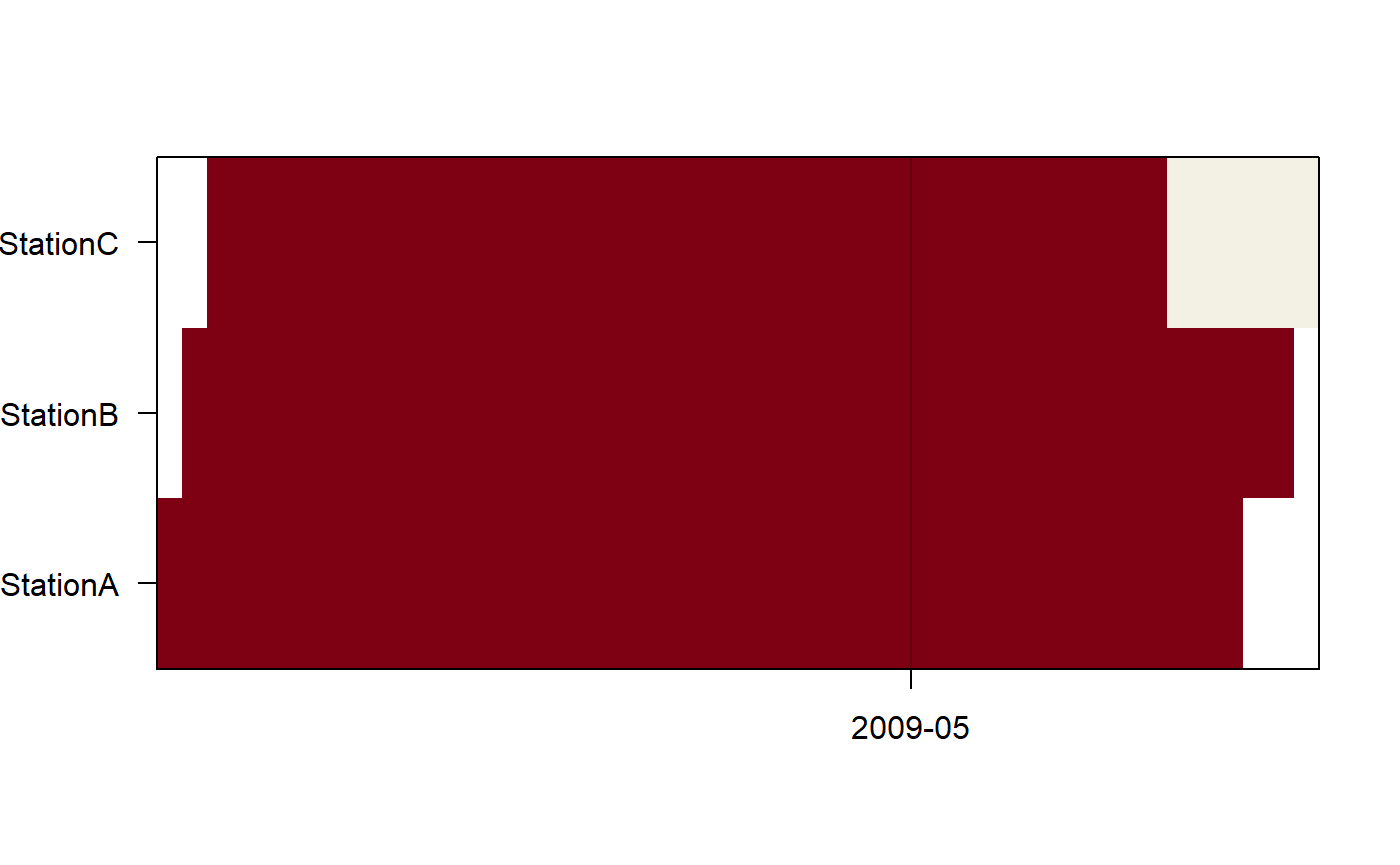
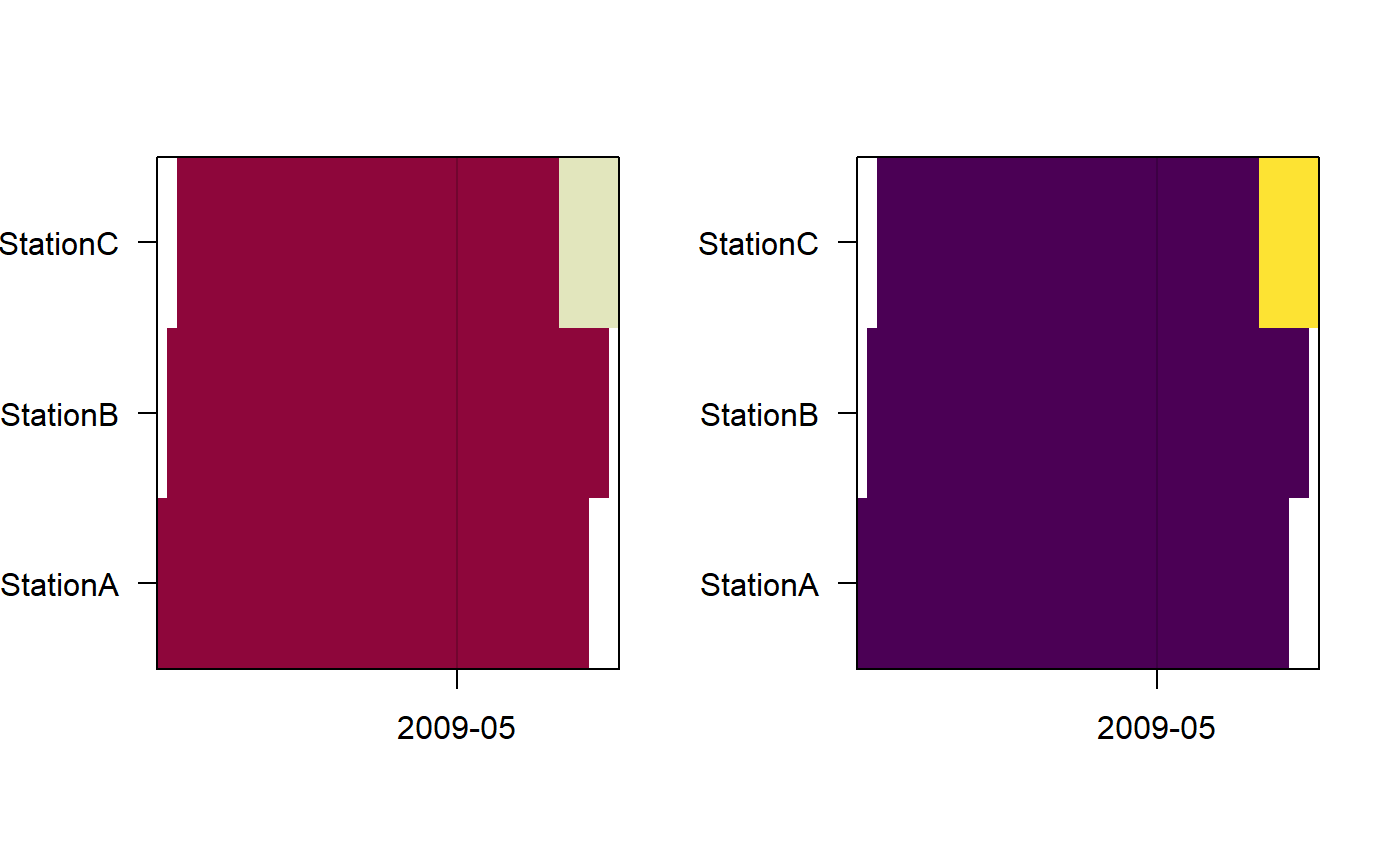
camopPlot updated

diff --git a/docs/articles/camtrapr3.html b/docs/articles/camtrapr3.html
@@ -94,7 +94,7 @@
       <h1>3. Extracting Data from Camera Trapping Images, creating occupancy &amp; secr input</h1>
                         <h4 class="author">Juergen Niedballa (<a href="mailto:camtrapr@gmail.com" class="email">camtrapr@gmail.com</a>)</h4>
             
-            <h4 class="date">2020-02-24</h4>
+            <h4 class="date">2020-02-26</h4>
       
       <small class="dont-index">Source: <a href="https://github.com/jniedballa/camtrapR/blob/master/vignettes/camtrapr3.Rmd"><code>vignettes/camtrapr3.Rmd</code></a></small>
       <div class="hidden name"><code>camtrapr3.Rmd</code></div>
@@ -148,13 +148,13 @@
 ## 4             226              3.8             0.2
 ## 5               2              0.0             0.0
 ## 6           21182            353.0            14.7
-##                                                                                                             Directory
-## 1 C:/Users/Juergen/AppData/Local/Temp/RtmpoVlgfh/temp_libpathbdc2b58400b/camtrapR/pictures/sample_images/StationA/PBE
-## 2 C:/Users/Juergen/AppData/Local/Temp/RtmpoVlgfh/temp_libpathbdc2b58400b/camtrapR/pictures/sample_images/StationA/PBE
-## 3 C:/Users/Juergen/AppData/Local/Temp/RtmpoVlgfh/temp_libpathbdc2b58400b/camtrapR/pictures/sample_images/StationA/PBE
-## 4 C:/Users/Juergen/AppData/Local/Temp/RtmpoVlgfh/temp_libpathbdc2b58400b/camtrapR/pictures/sample_images/StationA/PBE
-## 5 C:/Users/Juergen/AppData/Local/Temp/RtmpoVlgfh/temp_libpathbdc2b58400b/camtrapR/pictures/sample_images/StationA/PBE
-## 6 C:/Users/Juergen/AppData/Local/Temp/RtmpoVlgfh/temp_libpathbdc2b58400b/camtrapR/pictures/sample_images/StationA/PBE
+##                                                                                   Directory
+## 1 C:/Users/Juergen/Documents/R/win-library/3.6/camtrapR/pictures/sample_images/StationA/PBE
+## 2 C:/Users/Juergen/Documents/R/win-library/3.6/camtrapR/pictures/sample_images/StationA/PBE
+## 3 C:/Users/Juergen/Documents/R/win-library/3.6/camtrapR/pictures/sample_images/StationA/PBE
+## 4 C:/Users/Juergen/Documents/R/win-library/3.6/camtrapR/pictures/sample_images/StationA/PBE
+## 5 C:/Users/Juergen/Documents/R/win-library/3.6/camtrapR/pictures/sample_images/StationA/PBE
+## 6 C:/Users/Juergen/Documents/R/win-library/3.6/camtrapR/pictures/sample_images/StationA/PBE
 ##                                FileName n_images
 ## 1 StationA__2009-04-21__00-40-00(1).JPG        1
 ## 2 StationA__2009-04-22__20-19-00(1).JPG        1
@@ -300,7 +300,7 @@
 <div class="sourceCode" id="cb28"><pre class="sourceCode r"><code class="sourceCode r"><a class="sourceLine" id="cb28-1" title="1">wd_images_ID &lt;-<span class="st"> </span><span class="kw"><a href="https://rdrr.io/r/base/system.file.html">system.file</a></span>(<span class="st">"pictures/sample_images"</span>, <span class="dt">package =</span> <span class="st">"camtrapR"</span>)</a>
 <a class="sourceLine" id="cb28-2" title="2"><span class="kw"><a href="../reference/exifTagNames.html">exifTagNames</a></span>(<span class="dt">inDir =</span> wd_images_ID, <span class="dt">returnMetadata =</span> <span class="ot">FALSE</span>)</a></code></pre></div>
 <pre><code>## Metadata of:
-## C:/Users/Juergen/AppData/Local/Temp/RtmpoVlgfh/temp_libpathbdc2b58400b/camtrapR/pictures/sample_images/StationA/PBE/StationA__2009-04-21__00-40-00(1).JPG</code></pre>
+## C:/Users/Juergen/Documents/R/win-library/3.6/camtrapR/pictures/sample_images/StationA/PBE/StationA__2009-04-21__00-40-00(1).JPG</code></pre>
 <pre><code>##  [1] "Composite:ImageSize"          "Composite:Megapixels"        
 ##  [3] "Composite:ShutterSpeed"       "EXIF:ColorSpace"             
 ##  [5] "EXIF:ComponentsConfiguration" "EXIF:Compression"            
@@ -326,49 +326,49 @@
 <p>If one has no idea what kind of data are behind these tag names, <code>returnMetadata</code> can be set to TRUE to return the actual metadata instead of the tag names only.</p>
 <div class="sourceCode" id="cb31"><pre class="sourceCode r"><code class="sourceCode r"><a class="sourceLine" id="cb31-1" title="1"><span class="kw"><a href="../reference/exifTagNames.html">exifTagNames</a></span>(<span class="dt">inDir =</span> wd_images_ID, <span class="dt">returnMetadata =</span> <span class="ot">TRUE</span>)</a></code></pre></div>
 <pre><code>## Metadata values of:
-## C:/Users/Juergen/AppData/Local/Temp/RtmpoVlgfh/temp_libpathbdc2b58400b/camtrapR/pictures/sample_images/StationA/PBE/StationA__2009-04-21__00-40-00(1).JPG</code></pre>
-<pre><code>##  [1] "[ExifTool]      ExifTool Version Number         : 11.80"                                                                                                              
-##  [2] "[ExifTool]      Warning                         : Invalid EXIF text encoding for UserComment"                                                                         
-##  [3] "[File]          File Name                       : StationA__2009-04-21__00-40-00(1).JPG"                                                                              
-##  [4] "[File]          Directory                       : C:/Users/Juergen/AppData/Local/Temp/RtmpoVlgfh/temp_libpathbdc2b58400b/camtrapR/pictures/sample_images/StationA/PBE"
-##  [5] "[File]          File Size                       : 27 kB"                                                                                                              
-##  [6] "[File]          File Modification Date/Time     : 2020:02:24 14:38:25+08:00"                                                                                          
-##  [7] "[File]          File Access Date/Time           : 2020:02:24 14:38:25+08:00"                                                                                          
-##  [8] "[File]          File Creation Date/Time         : 2020:02:24 14:38:25+08:00"                                                                                          
-##  [9] "[File]          File Permissions                : rw-rw-rw-"                                                                                                          
-## [10] "[File]          File Type                       : JPEG"                                                                                                               
-## [11] "[File]          File Type Extension             : jpg"                                                                                                                
-## [12] "[File]          MIME Type                       : image/jpeg"                                                                                                         
-## [13] "[File]          Exif Byte Order                 : Little-endian (Intel, II)"                                                                                          
-## [14] "[File]          Image Width                     : 100"                                                                                                                
-## [15] "[File]          Image Height                    : 75"                                                                                                                 
-## [16] "[File]          Encoding Process                : Baseline DCT, Huffman coding"                                                                                       
-## [17] "[File]          Bits Per Sample                 : 8"                                                                                                                  
-## [18] "[File]          Color Components                : 3"                                                                                                                  
-## [19] "[File]          Y Cb Cr Sub Sampling            : YCbCr4:2:2 (2 1)"                                                                                                   
-## [20] "[EXIF]          Make                            : G4"                                                                                                                 
-## [21] "[EXIF]          Camera Model Name               : CUDDEBACK"                                                                                                          
-## [22] "[EXIF]          X Resolution                    : 72"                                                                                                                 
-## [23] "[EXIF]          Y Resolution                    : 72"                                                                                                                 
-## [24] "[EXIF]          Modify Date                     : 2009:04:21 00:40:00"                                                                                                
-## [25] "[EXIF]          Resolution Unit                 : inches"                                                                                                             
-## [26] "[EXIF]          Y Cb Cr Positioning             : Co-sited"                                                                                                           
-## [27] "[EXIF]          Exif Version                    : 0200"                                                                                                               
-## [28] "[EXIF]          Components Configuration        : Y, Cb, Cr, -"                                                                                                       
-## [29] "[EXIF]          Flashpix Version                : 0100"                                                                                                               
-## [30] "[EXIF]          Color Space                     : sRGB"                                                                                                               
-## [31] "[EXIF]          Exif Image Width                : 100"                                                                                                                
-## [32] "[EXIF]          Exif Image Height               : 75"                                                                                                                 
-## [33] "[EXIF]          Date/Time Original              : 2009:04:21 00:40:00"                                                                                                
-## [34] "[EXIF]          Create Date                     : 2009:04:21 00:40:00"                                                                                                
-## [35] "[EXIF]          User Comment                    : 1 ATTEMPT G1H"                                                                                                      
-## [36] "[EXIF]          Shutter Speed Value             : 1"                                                                                                                  
-## [37] "[EXIF]          Compression                     : JPEG (old-style)"                                                                                                   
-## [38] "[EXIF]          Thumbnail Offset                : 408"                                                                                                                
-## [39] "[EXIF]          Thumbnail Length                : 25353"                                                                                                              
-## [40] "[EXIF]          Thumbnail Image                 : (Binary data 25353 bytes, use -b option to extract)"                                                                
-## [41] "[Composite]     Image Size                      : 100x75"                                                                                                             
-## [42] "[Composite]     Megapixels                      : 0.007"                                                                                                              
+## C:/Users/Juergen/Documents/R/win-library/3.6/camtrapR/pictures/sample_images/StationA/PBE/StationA__2009-04-21__00-40-00(1).JPG</code></pre>
+<pre><code>##  [1] "[ExifTool]      ExifTool Version Number         : 11.80"                                                                                    
+##  [2] "[ExifTool]      Warning                         : Invalid EXIF text encoding for UserComment"                                               
+##  [3] "[File]          File Name                       : StationA__2009-04-21__00-40-00(1).JPG"                                                    
+##  [4] "[File]          Directory                       : C:/Users/Juergen/Documents/R/win-library/3.6/camtrapR/pictures/sample_images/StationA/PBE"
+##  [5] "[File]          File Size                       : 27 kB"                                                                                    
+##  [6] "[File]          File Modification Date/Time     : 2020:02:25 12:39:04+08:00"                                                                
+##  [7] "[File]          File Access Date/Time           : 2020:02:25 12:39:04+08:00"                                                                
+##  [8] "[File]          File Creation Date/Time         : 2020:02:25 12:39:04+08:00"                                                                
+##  [9] "[File]          File Permissions                : rw-rw-rw-"                                                                                
+## [10] "[File]          File Type                       : JPEG"                                                                                     
+## [11] "[File]          File Type Extension             : jpg"                                                                                      
+## [12] "[File]          MIME Type                       : image/jpeg"                                                                               
+## [13] "[File]          Exif Byte Order                 : Little-endian (Intel, II)"                                                                
+## [14] "[File]          Image Width                     : 100"                                                                                      
+## [15] "[File]          Image Height                    : 75"                                                                                       
+## [16] "[File]          Encoding Process                : Baseline DCT, Huffman coding"                                                             
+## [17] "[File]          Bits Per Sample                 : 8"                                                                                        
+## [18] "[File]          Color Components                : 3"                                                                                        
+## [19] "[File]          Y Cb Cr Sub Sampling            : YCbCr4:2:2 (2 1)"                                                                         
+## [20] "[EXIF]          Make                            : G4"                                                                                       
+## [21] "[EXIF]          Camera Model Name               : CUDDEBACK"                                                                                
+## [22] "[EXIF]          X Resolution                    : 72"                                                                                       
+## [23] "[EXIF]          Y Resolution                    : 72"                                                                                       
+## [24] "[EXIF]          Modify Date                     : 2009:04:21 00:40:00"                                                                      
+## [25] "[EXIF]          Resolution Unit                 : inches"                                                                                   
+## [26] "[EXIF]          Y Cb Cr Positioning             : Co-sited"                                                                                 
+## [27] "[EXIF]          Exif Version                    : 0200"                                                                                     
+## [28] "[EXIF]          Components Configuration        : Y, Cb, Cr, -"                                                                             
+## [29] "[EXIF]          Flashpix Version                : 0100"                                                                                     
+## [30] "[EXIF]          Color Space                     : sRGB"                                                                                     
+## [31] "[EXIF]          Exif Image Width                : 100"                                                                                      
+## [32] "[EXIF]          Exif Image Height               : 75"                                                                                       
+## [33] "[EXIF]          Date/Time Original              : 2009:04:21 00:40:00"                                                                      
+## [34] "[EXIF]          Create Date                     : 2009:04:21 00:40:00"                                                                      
+## [35] "[EXIF]          User Comment                    : 1 ATTEMPT G1H"                                                                            
+## [36] "[EXIF]          Shutter Speed Value             : 1"                                                                                        
+## [37] "[EXIF]          Compression                     : JPEG (old-style)"                                                                         
+## [38] "[EXIF]          Thumbnail Offset                : 408"                                                                                      
+## [39] "[EXIF]          Thumbnail Length                : 25353"                                                                                    
+## [40] "[EXIF]          Thumbnail Image                 : (Binary data 25353 bytes, use -b option to extract)"                                      
+## [41] "[Composite]     Image Size                      : 100x75"                                                                                   
+## [42] "[Composite]     Megapixels                      : 0.007"                                                                                    
 ## [43] "[Composite]     Shutter Speed                   : 1"</code></pre>
 <p>Note that when <code>returnMetadata = TRUE</code> the tag names contain spaces whereas they don’t when <code>returnMetadata = FALSE</code>. When supplying tagnames to the <code>recordTable</code> functions, use the tag names without spaces (as returned when <code>returnMetadata = FALSE</code>).</p>
 <p>Please also note that <code>exifTagNames</code> by default returns the metadata tag group along with the tag names (since version 0.99.6), which is helpful to unambiguously identify and extract specific metadata tags as shown in the next step.</p>
@@ -395,13 +395,13 @@
 ## 4             226              3.8             0.2
 ## 5               2              0.0             0.0
 ## 6           21182            353.0            14.7
-##                                                                                                             Directory
-## 1 C:/Users/Juergen/AppData/Local/Temp/RtmpoVlgfh/temp_libpathbdc2b58400b/camtrapR/pictures/sample_images/StationA/PBE
-## 2 C:/Users/Juergen/AppData/Local/Temp/RtmpoVlgfh/temp_libpathbdc2b58400b/camtrapR/pictures/sample_images/StationA/PBE
-## 3 C:/Users/Juergen/AppData/Local/Temp/RtmpoVlgfh/temp_libpathbdc2b58400b/camtrapR/pictures/sample_images/StationA/PBE
-## 4 C:/Users/Juergen/AppData/Local/Temp/RtmpoVlgfh/temp_libpathbdc2b58400b/camtrapR/pictures/sample_images/StationA/PBE
-## 5 C:/Users/Juergen/AppData/Local/Temp/RtmpoVlgfh/temp_libpathbdc2b58400b/camtrapR/pictures/sample_images/StationA/PBE
-## 6 C:/Users/Juergen/AppData/Local/Temp/RtmpoVlgfh/temp_libpathbdc2b58400b/camtrapR/pictures/sample_images/StationA/PBE
+##                                                                                   Directory
+## 1 C:/Users/Juergen/Documents/R/win-library/3.6/camtrapR/pictures/sample_images/StationA/PBE
+## 2 C:/Users/Juergen/Documents/R/win-library/3.6/camtrapR/pictures/sample_images/StationA/PBE
+## 3 C:/Users/Juergen/Documents/R/win-library/3.6/camtrapR/pictures/sample_images/StationA/PBE
+## 4 C:/Users/Juergen/Documents/R/win-library/3.6/camtrapR/pictures/sample_images/StationA/PBE
+## 5 C:/Users/Juergen/Documents/R/win-library/3.6/camtrapR/pictures/sample_images/StationA/PBE
+## 6 C:/Users/Juergen/Documents/R/win-library/3.6/camtrapR/pictures/sample_images/StationA/PBE
 ##                                FileName EXIF.Model EXIF.Make n_images
 ## 1 StationA__2009-04-21__00-40-00(1).JPG  CUDDEBACK        G4        1
 ## 2 StationA__2009-04-22__20-19-00(1).JPG  CUDDEBACK        G4        1
@@ -448,13 +448,13 @@
 ## 4           13680             228              3.8             0.2
 ## 5               0               0              0.0             0.0
 ## 6          625800           10430            173.8             7.2
-##                                                                                                                  Directory
-## 1 C:/Users/Juergen/AppData/Local/Temp/RtmpoVlgfh/temp_libpathbdc2b58400b/camtrapR/pictures/sample_images_tagged/LeopardCat
-## 2 C:/Users/Juergen/AppData/Local/Temp/RtmpoVlgfh/temp_libpathbdc2b58400b/camtrapR/pictures/sample_images_tagged/LeopardCat
-## 3 C:/Users/Juergen/AppData/Local/Temp/RtmpoVlgfh/temp_libpathbdc2b58400b/camtrapR/pictures/sample_images_tagged/LeopardCat
-## 4 C:/Users/Juergen/AppData/Local/Temp/RtmpoVlgfh/temp_libpathbdc2b58400b/camtrapR/pictures/sample_images_tagged/LeopardCat
-## 5 C:/Users/Juergen/AppData/Local/Temp/RtmpoVlgfh/temp_libpathbdc2b58400b/camtrapR/pictures/sample_images_tagged/LeopardCat
-## 6 C:/Users/Juergen/AppData/Local/Temp/RtmpoVlgfh/temp_libpathbdc2b58400b/camtrapR/pictures/sample_images_tagged/LeopardCat
+##                                                                                        Directory
+## 1 C:/Users/Juergen/Documents/R/win-library/3.6/camtrapR/pictures/sample_images_tagged/LeopardCat
+## 2 C:/Users/Juergen/Documents/R/win-library/3.6/camtrapR/pictures/sample_images_tagged/LeopardCat
+## 3 C:/Users/Juergen/Documents/R/win-library/3.6/camtrapR/pictures/sample_images_tagged/LeopardCat
+## 4 C:/Users/Juergen/Documents/R/win-library/3.6/camtrapR/pictures/sample_images_tagged/LeopardCat
+## 5 C:/Users/Juergen/Documents/R/win-library/3.6/camtrapR/pictures/sample_images_tagged/LeopardCat
+## 6 C:/Users/Juergen/Documents/R/win-library/3.6/camtrapR/pictures/sample_images_tagged/LeopardCat
 ##                                FileName metadata_Species metadata_individual
 ## 1 StationA__2009-05-07__17-11-00(1).JPG      Leopard Cat                   1
 ## 2 StationA__2009-04-21__00-40-00(1).JPG      Leopard Cat                   2
@@ -516,24 +516,34 @@
 <p>If stations were not set up, values are NA. If they were set up but malfunctioning, it is 0. Operational stations get value 1.</p>
 <p>Here is a little function for plotting the camera operation matrix. Imagine there is a typo in one of your date fields and the setup or retrieval year is wrong. You will easily be able to spot it this way.</p>
 <div class="sourceCode" id="cb50"><pre class="sourceCode r"><code class="sourceCode r"><a class="sourceLine" id="cb50-1" title="1">camopPlot &lt;-<span class="st"> </span><span class="cf">function</span>(camOp, </a>
-<a class="sourceLine" id="cb50-2" title="2">                      <span class="dt">palette =</span> <span class="st">"Red-Yellow"</span>){</a>
+<a class="sourceLine" id="cb50-2" title="2">                      <span class="dt">palette =</span> <span class="st">"Heat"</span>){</a>
 <a class="sourceLine" id="cb50-3" title="3">  </a>
 <a class="sourceLine" id="cb50-4" title="4">  which.tmp &lt;-<span class="st"> </span><span class="kw"><a href="https://rdrr.io/r/base/grep.html">grep</a></span>(<span class="kw"><a href="https://rdrr.io/r/base/as.Date.html">as.Date</a></span>(<span class="kw"><a href="https://rdrr.io/r/base/colnames.html">colnames</a></span>(camOp)), <span class="dt">pattern =</span> <span class="st">"01$"</span>)</a>
 <a class="sourceLine" id="cb50-5" title="5">  label.tmp &lt;-<span class="st"> </span><span class="kw"><a href="https://rdrr.io/r/base/format.html">format</a></span>(<span class="kw"><a href="https://rdrr.io/r/base/as.Date.html">as.Date</a></span>(<span class="kw"><a href="https://rdrr.io/r/base/colnames.html">colnames</a></span>(camOp))[which.tmp], <span class="st">"%Y-%m"</span>)</a>
 <a class="sourceLine" id="cb50-6" title="6">  at.tmp &lt;-<span class="st"> </span>which.tmp <span class="op">/</span><span class="st"> </span><span class="kw"><a href="https://rdrr.io/r/base/nrow.html">ncol</a></span>(camOp)</a>
 <a class="sourceLine" id="cb50-7" title="7">  </a>
-<a class="sourceLine" id="cb50-8" title="8">  values_tmp &lt;-<span class="st"> </span><span class="kw"><a href="https://rdrr.io/r/stats/na.fail.html">na.omit</a></span>(<span class="kw"><a href="https://rdrr.io/r/base/unique.html">unique</a></span>(<span class="kw"><a href="https://rdrr.io/r/base/c.html">c</a></span>(camOp)))</a>
+<a class="sourceLine" id="cb50-8" title="8">  values_tmp &lt;-<span class="st"> </span><span class="kw"><a href="https://rdrr.io/r/base/sort.html">sort</a></span>(<span class="kw"><a href="https://rdrr.io/r/stats/na.fail.html">na.omit</a></span>(<span class="kw"><a href="https://rdrr.io/r/base/unique.html">unique</a></span>(<span class="kw"><a href="https://rdrr.io/r/base/c.html">c</a></span>(camOp))))</a>
 <a class="sourceLine" id="cb50-9" title="9"></a>
-<a class="sourceLine" id="cb50-10" title="10">  <span class="kw"><a href="https://rdrr.io/r/graphics/image.html">image</a></span>(<span class="kw"><a href="https://rdrr.io/r/base/t.html">t</a></span>(<span class="kw"><a href="https://rdrr.io/r/base/matrix.html">as.matrix</a></span>(camOp)), <span class="dt">xaxt =</span> <span class="st">"n"</span>, <span class="dt">yaxt =</span> <span class="st">"n"</span>, <span class="dt">col =</span> <span class="kw"><a href="https://rdrr.io/r/grDevices/palettes.html">hcl.colors</a></span>(<span class="dt">n =</span> <span class="kw"><a href="https://rdrr.io/r/base/length.html">length</a></span>(values_tmp), <span class="dt">palette =</span> palette, <span class="dt">rev =</span> <span class="ot">TRUE</span>))</a>
-<a class="sourceLine" id="cb50-11" title="11">  </a>
-<a class="sourceLine" id="cb50-12" title="12">  <span class="kw"><a href="https://rdrr.io/r/graphics/axis.html">axis</a></span>(<span class="dv">1</span>, <span class="dt">at =</span> at.tmp, <span class="dt">labels =</span> label.tmp)</a>
-<a class="sourceLine" id="cb50-13" title="13">  <span class="kw"><a href="https://rdrr.io/r/graphics/axis.html">axis</a></span>(<span class="dv">2</span>, <span class="dt">at =</span> <span class="kw"><a href="https://rdrr.io/r/base/seq.html">seq</a></span>(<span class="dt">from =</span> <span class="dv">0</span>, <span class="dt">to =</span> <span class="dv">1</span>, <span class="dt">length.out =</span> <span class="kw"><a href="https://rdrr.io/r/base/nrow.html">nrow</a></span>(camOp)), <span class="dt">labels =</span> <span class="kw"><a href="https://rdrr.io/r/base/colnames.html">rownames</a></span>(camOp), <span class="dt">las =</span> <span class="dv">1</span>)</a>
-<a class="sourceLine" id="cb50-14" title="14">  <span class="kw"><a href="https://rdrr.io/r/graphics/abline.html">abline</a></span>(<span class="dt">v =</span> at.tmp, <span class="dt">col =</span> <span class="kw"><a href="https://rdrr.io/r/grDevices/rgb.html">rgb</a></span>(<span class="dv">0</span>,<span class="dv">0</span>,<span class="dv">0</span>, <span class="fl">0.2</span>))</a>
-<a class="sourceLine" id="cb50-15" title="15">  <span class="kw"><a href="https://rdrr.io/r/graphics/box.html">box</a></span>()</a>
-<a class="sourceLine" id="cb50-16" title="16">}</a></code></pre></div>
-<p>And this is what we get</p>
-<div class="sourceCode" id="cb51"><pre class="sourceCode r"><code class="sourceCode r"><a class="sourceLine" id="cb51-1" title="1"><span class="kw">camopPlot</span>(<span class="dt">camOp =</span> camop_problem)</a></code></pre></div>
+<a class="sourceLine" id="cb50-10" title="10">  <span class="co"># hcl.colors only exists in R &gt;3.6.0, use heat.colors for earlier versions</span></a>
+<a class="sourceLine" id="cb50-11" title="11">  image_colors &lt;-<span class="st"> </span><span class="cf">if</span>(<span class="kw"><a href="https://rdrr.io/r/base/exists.html">exists</a></span>(<span class="st">"hcl.colors"</span>)) {</a>
+<a class="sourceLine" id="cb50-12" title="12">    <span class="kw"><a href="https://rdrr.io/r/grDevices/palettes.html">hcl.colors</a></span>(<span class="dt">n =</span> <span class="kw"><a href="https://rdrr.io/r/base/length.html">length</a></span>(values_tmp), <span class="dt">palette =</span> palette, <span class="dt">rev =</span> <span class="ot">TRUE</span>)</a>
+<a class="sourceLine" id="cb50-13" title="13">  } <span class="cf">else</span> {</a>
+<a class="sourceLine" id="cb50-14" title="14">    <span class="kw"><a href="https://rdrr.io/r/grDevices/palettes.html">heat.colors</a></span>(<span class="dt">n =</span> <span class="kw"><a href="https://rdrr.io/r/base/length.html">length</a></span>(values_tmp), <span class="dt">rev =</span> <span class="ot">TRUE</span>)</a>
+<a class="sourceLine" id="cb50-15" title="15">  }</a>
+<a class="sourceLine" id="cb50-16" title="16">  </a>
+<a class="sourceLine" id="cb50-17" title="17">  <span class="kw"><a href="https://rdrr.io/r/graphics/image.html">image</a></span>(<span class="kw"><a href="https://rdrr.io/r/base/t.html">t</a></span>(<span class="kw"><a href="https://rdrr.io/r/base/matrix.html">as.matrix</a></span>(camOp)), <span class="dt">xaxt =</span> <span class="st">"n"</span>, <span class="dt">yaxt =</span> <span class="st">"n"</span>, <span class="dt">col =</span> image_colors)</a>
+<a class="sourceLine" id="cb50-18" title="18">  <span class="kw"><a href="https://rdrr.io/r/graphics/axis.html">axis</a></span>(<span class="dv">1</span>, <span class="dt">at =</span> at.tmp, <span class="dt">labels =</span> label.tmp)</a>
+<a class="sourceLine" id="cb50-19" title="19">  <span class="kw"><a href="https://rdrr.io/r/graphics/axis.html">axis</a></span>(<span class="dv">2</span>, <span class="dt">at =</span> <span class="kw"><a href="https://rdrr.io/r/base/seq.html">seq</a></span>(<span class="dt">from =</span> <span class="dv">0</span>, <span class="dt">to =</span> <span class="dv">1</span>, <span class="dt">length.out =</span> <span class="kw"><a href="https://rdrr.io/r/base/nrow.html">nrow</a></span>(camOp)), <span class="dt">labels =</span> <span class="kw"><a href="https://rdrr.io/r/base/colnames.html">rownames</a></span>(camOp), <span class="dt">las =</span> <span class="dv">1</span>)</a>
+<a class="sourceLine" id="cb50-20" title="20">  <span class="kw"><a href="https://rdrr.io/r/graphics/abline.html">abline</a></span>(<span class="dt">v =</span> at.tmp, <span class="dt">col =</span> <span class="kw"><a href="https://rdrr.io/r/grDevices/rgb.html">rgb</a></span>(<span class="dv">0</span>,<span class="dv">0</span>,<span class="dv">0</span>, <span class="fl">0.2</span>))</a>
+<a class="sourceLine" id="cb50-21" title="21">  <span class="kw"><a href="https://rdrr.io/r/graphics/box.html">box</a></span>()</a>
+<a class="sourceLine" id="cb50-22" title="22">}</a></code></pre></div>
+<p>And this is what we get (in two different color palettes).</p>
+<div class="sourceCode" id="cb51"><pre class="sourceCode r"><code class="sourceCode r"><a class="sourceLine" id="cb51-1" title="1"><span class="kw"><a href="https://rdrr.io/r/graphics/par.html">par</a></span>(<span class="dt">mfrow =</span> <span class="kw"><a href="https://rdrr.io/r/base/c.html">c</a></span>(<span class="dv">1</span>,<span class="dv">2</span>))</a>
+<a class="sourceLine" id="cb51-2" title="2"><span class="kw">camopPlot</span>(<span class="dt">camOp =</span> camop_problem)</a>
+<a class="sourceLine" id="cb51-3" title="3"><span class="kw">camopPlot</span>(<span class="dt">camOp =</span> camop_problem, <span class="dt">palette =</span> <span class="st">"Viridis"</span>)</a></code></pre></div>
 <p><img src="camtrapr3_files/figure-html/unnamed-chunk-15-1.png" width="700"></p>
+<p>Note that the colors are stretched between the lowest and highest value. There is no dedicated color for 0, designating non-operational cameras.</p>
+<p>For a list of color palettes, see <a href="https://developer.r-project.org/Blog/public/2019/04/01/hcl-based-color-palettes-in-grdevices/index.html">here</a>.</p>
 <div id="saving-and-loading-camera-operation-matrices" class="section level2">
 <h2 class="hasAnchor">
 <a href="#saving-and-loading-camera-operation-matrices" class="anchor"></a>Saving and loading camera operation matrices</h2>
@@ -788,7 +798,7 @@
 <div class="sourceCode" id="cb74"><pre class="sourceCode r"><code class="sourceCode r"><a class="sourceLine" id="cb74-1" title="1">  <span class="kw"><a href="https://rdrr.io/r/graphics/plot.html">plot</a></span>(sdh, <span class="dt">tracks =</span> <span class="ot">TRUE</span>)</a></code></pre></div>
 <pre><code>## Warning in plot.capthist(sdh, tracks = TRUE): track for repeat detections on
 ## same occasion joins points in arbitrary sequence</code></pre>
-<p><img src="camtrapr3_files/figure-html/unnamed-chunk-21-1.png" width="700"></p>
+<p><img src="camtrapr3_files/figure-html/unnamed-chunk-22-1.png" width="700"></p>
 </div>
 </div>
 <div id="input-for-subsequent-analyses-multi-season" class="section level1">
@@ -821,7 +831,7 @@
 <a class="sourceLine" id="cb76-18" title="18"><span class="co"># plot camera operation matrix</span></a>
 <a class="sourceLine" id="cb76-19" title="19"><span class="kw"><a href="https://rdrr.io/r/graphics/par.html">par</a></span>(<span class="dt">oma =</span> <span class="kw"><a href="https://rdrr.io/r/base/c.html">c</a></span>(<span class="dv">0</span>,<span class="dv">7</span>,<span class="dv">0</span>,<span class="dv">0</span>))</a>
 <a class="sourceLine" id="cb76-20" title="20"><span class="kw">camopPlot</span>(camop_season)</a></code></pre></div>
-<p><img src="camtrapr3_files/figure-html/unnamed-chunk-22-1.png" width="700"></p>
+<p><img src="camtrapr3_files/figure-html/unnamed-chunk-23-1.png" width="700"></p>
 <div class="sourceCode" id="cb77"><pre class="sourceCode r"><code class="sourceCode r"><a class="sourceLine" id="cb77-1" title="1"><span class="co"># make multi-season detection history</span></a>
 <a class="sourceLine" id="cb77-2" title="2">DetHist_multi &lt;-<span class="st"> </span><span class="kw"><a href="../reference/detectionHistory.html">detectionHistory</a></span>(<span class="dt">recordTable   =</span> recordTableSampleMultiSeason,</a>
 <a class="sourceLine" id="cb77-3" title="3">                            <span class="dt">camOp                =</span> camop_season,</a>
@@ -992,7 +1002,7 @@
 ##  2:1</code></pre>
 <div class="sourceCode" id="cb85"><pre class="sourceCode r"><code class="sourceCode r"><a class="sourceLine" id="cb85-1" title="1">  <span class="kw"><a href="https://rdrr.io/r/graphics/par.html">par</a></span>(<span class="dt">mfrow =</span> <span class="kw"><a href="https://rdrr.io/r/base/c.html">c</a></span>(<span class="dv">1</span>,<span class="dv">2</span>))</a>
 <a class="sourceLine" id="cb85-2" title="2">  <span class="kw"><a href="https://rdrr.io/r/graphics/plot.html">plot</a></span>(sdh_multi)</a></code></pre></div>
-<p><img src="camtrapr3_files/figure-html/unnamed-chunk-26-1.png" width="700"></p>
+<p><img src="camtrapr3_files/figure-html/unnamed-chunk-27-1.png" width="700"></p>
 <pre><code>##  1  2 
 ## 15  6</code></pre>
 <div class="sourceCode" id="cb87"><pre class="sourceCode r"><code class="sourceCode r"><a class="sourceLine" id="cb87-1" title="1">  secr.fit.example &lt;-<span class="st"> </span><span class="kw">secr.fit</span>(<span class="dt">capthist =</span> sdh_multi,</a>
@@ -1152,10 +1162,10 @@
 ##  144    -26.492  -1.2627  -3.5678  14.9091 
 ##  145    -26.492  -1.2627  -3.5679  14.9106 
 ##  146    -26.492  -1.2627  -3.5680  14.9121 
-## Completed in 0.27 seconds at 14:40:47 24 Feb 2020</code></pre>
+## Completed in 0.26 seconds at 16:09:13 26 Feb 2020</code></pre>
 <div class="sourceCode" id="cb92"><pre class="sourceCode r"><code class="sourceCode r"><a class="sourceLine" id="cb92-1" title="1">  <span class="kw"><a href="https://rdrr.io/r/base/summary.html">summary</a></span>(secr.fit.example)</a></code></pre></div>
 <pre><code>## $versiontime
-## [1] "4.0.2, run 14:40:47 24 Feb 2020, elapsed 0.27 s"
+## [1] "4.1.0, run 16:09:13 26 Feb 2020, elapsed 0.26 s"
 ## 
 ## $capthist
 ##             1 2
